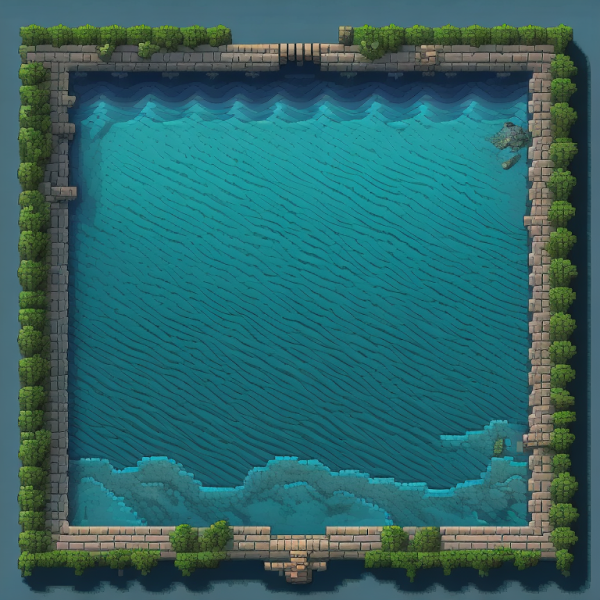
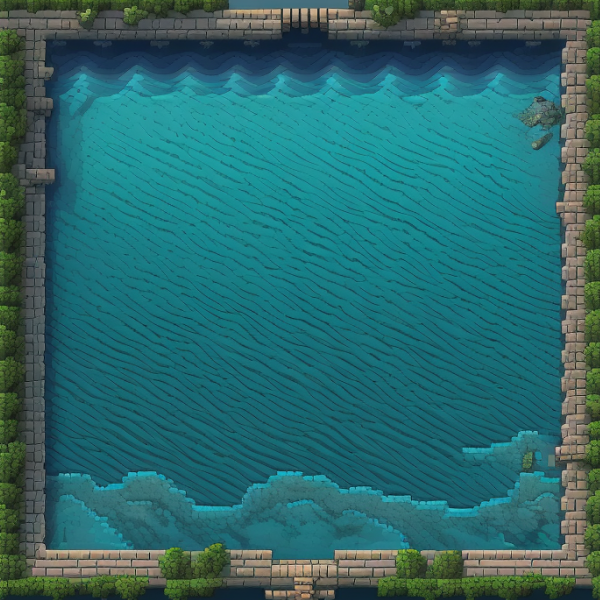
Finished scene2 design.

diff --git a/javascript/Scene2.js b/javascript/Scene2.js
@@ -6,14 +6,36 @@ class Scene2 extends Phaser.Scene{
     create(){
         this.background = this.add.image(0,0,"background");
         this.background.setOrigin(0,0);
-        this.background = this.add.image(600/2-70, 600/2 +100,"ship1");
-        this.background = this.add.image(600/2-60, 600/2 +60,"bridge");
+        this.ship1 = this.add.image(600/2-70, 600/2 -100,"ship1");
+        this.bridge = this.physics.add.image(600/2+40, 600/2 -140,"bridge");
+        this.bridge.setImmovable(true);
+
+        // this.bridge = this.add.image(600/2+40, 600/2 +100,"bridge");
+        // this.bridge = this.add.image(600/2+250, 600/2 -20,"bridge-l6");
+        // this.bridge = this.add.image(600/2-220, 600/2 -20,"bridge-l6");
+        // this.bridge = this.add.image(600/2-20, 600/2 +200,"bridge-hl5");
+        // this.bridge = this.add.image(600/2+190, 600/2 +20,"bridge-l5");
+        // this.bridge = this.add.image(600/2-140, 600/2 +20,"bridge-l5");
+        // this.bridge = this.add.image(600/2+130, 600/2 -110,"bridge-l3");
+        // this.bridge = this.add.image(600/2 +70, 600/2 -10,"bridge-l3");
+        // this.bridge = this.add.image(600/2-0, 600/2 -20,"bridge-l2");
+        // this.bridge = this.add.image(600/2-70, 600/2 -20,"bridge-l3");
+        // this.bridge = this.add.image(600/2+180, 600/2 -240,"bridge-vl2");
+        // this.bridge = this.add.image(600/2+60, 600/2 -200,"bridge-vl2");
         this.player = this.physics.add.image(600/2-60, 600/2 +60,"player");
+
+        // this.bridge_l6.setImmovable(true);
+        // this.bridge_l5.setImmovable(true);
+        // this.bridge_hl5.setImmovable(true);
+        // this.bridge_3.setImmovable(true);
+        // this.bridge_l2.setImmovable(true);
+        // this.bridge_vl2.setImmovable(true);
 
         this.player.setCollideWorldBounds(true);
         this.curseorKeys = this.input.keyboard.createCursorKeys();
 
         this.keys = this.input.keyboard.addKeys("W,A,S,D");
+        this.physics.add.collider(this.player, this.row);
 
     }
 

diff --git a/javascript/Scene1.js b/javascript/Scene1.js
@@ -6,7 +6,13 @@ class Scene1 extends Phaser.Scene{
     preload(){
         this.load.image("background", "../level1/waterbg.png");
         this.load.image("ship1","/level1/ship-large2.png");
-        this.load.image("bridge","/level1/bridge-vertical.png");
+        this.load.image("bridge-l6","/level1/bridge-l6.png");
+        this.load.image("bridge-l5","/level1/bridge-l5.png");
+        this.load.image("bridge-hl5","/level1/bridge-hl5.png");
+        this.load.image("bridge-l3","/level1/bridge-l3.png");
+        this.load.image("bridge-l2","/level1/bridge-l2.png");
+        this.load.image("bridge-vl2","/level1/bridge-vl2.png");
+        this.load.image("bridge","/level1/bridge.png");
         this.load.image("player", "/level1/player.png");
     }
     
